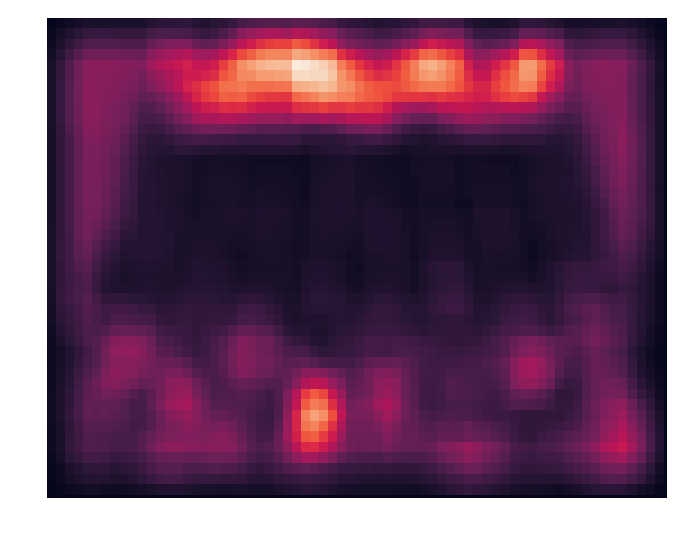
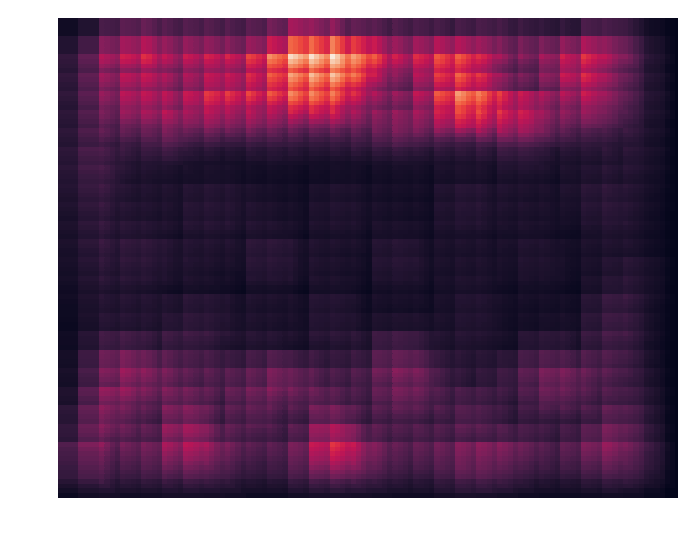
Added some test heatmaps

diff --git a/main2.py b/main2.py
@@ -167,7 +167,7 @@ with open(labels_path) as image_labels:
 		line = line.replace(" ", "_")
 		labels.append(line)
 
-imgpath = "kinect_images_new/white_front/middle.jpeg"
+imgpath = "kinect_images_new/white_front/tall.jpeg"
 
 chessboard_keypoints = get_keypoints(imgpath)[0]
 
